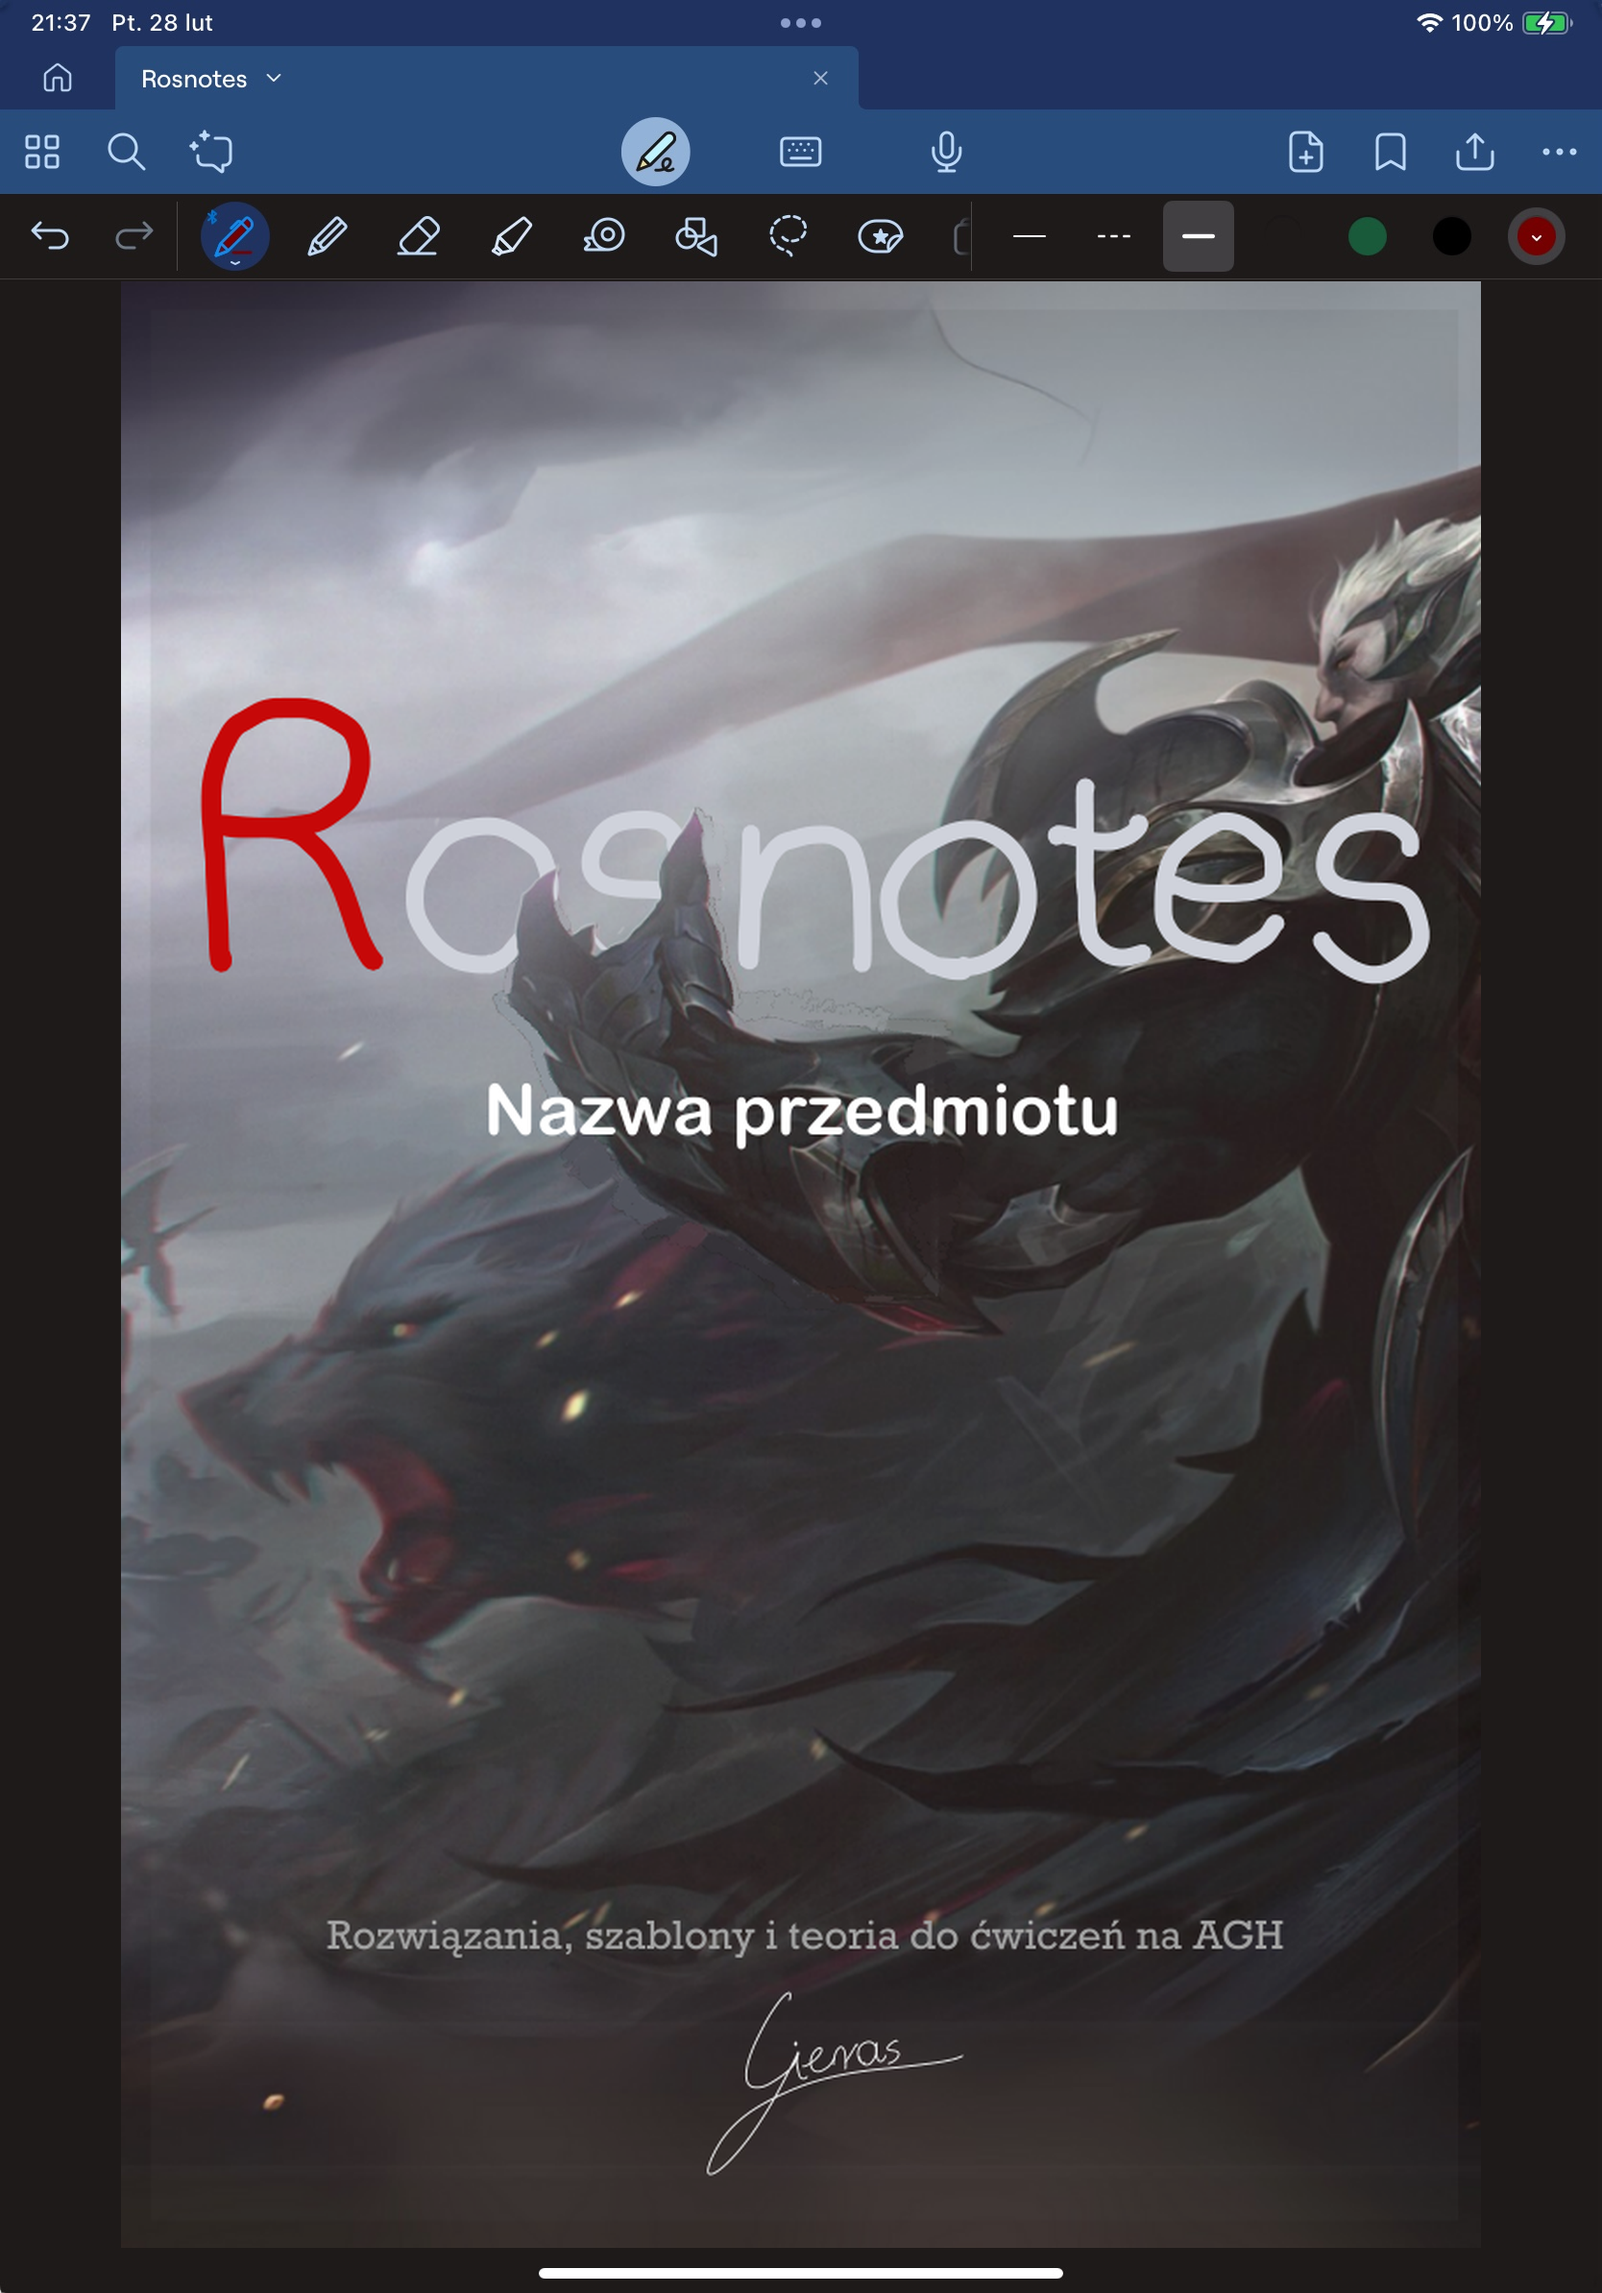
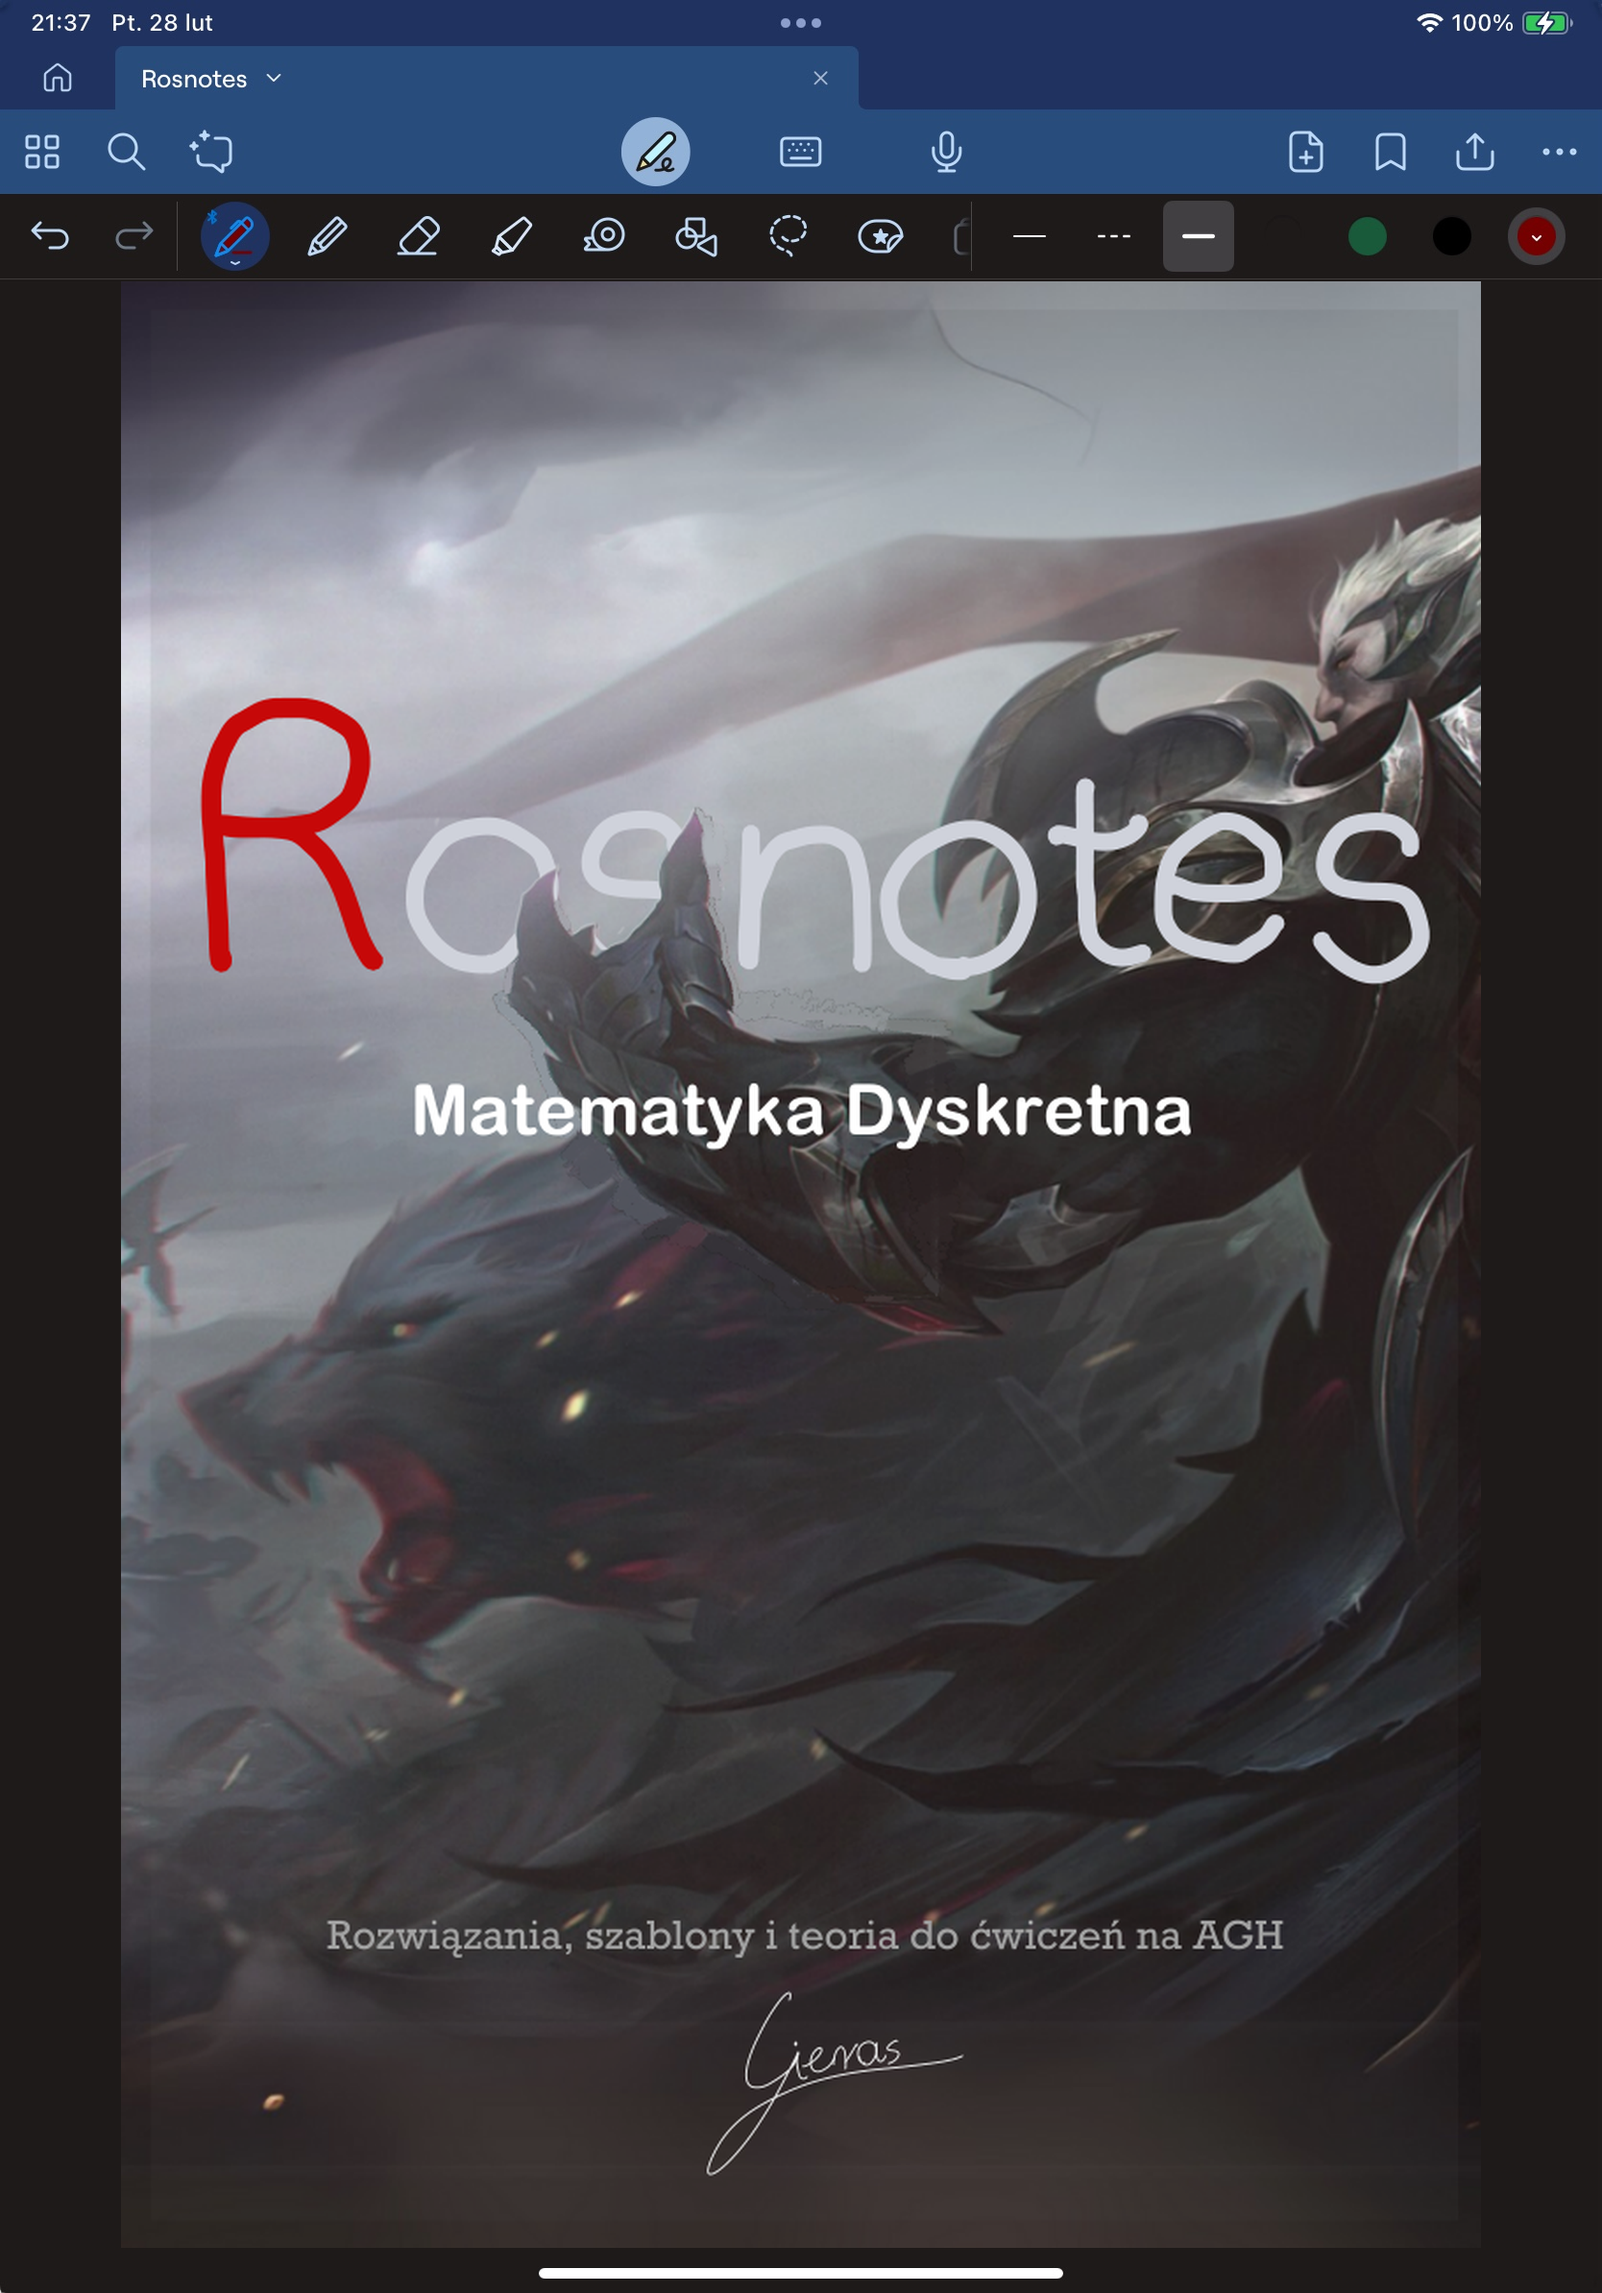
ustawienie nazwy zeszytu

Changed region(s): [[0.2494, 0.4648, 0.7482, 0.4958]]

diff --git a/Organize/Organize.py b/Organize/Organize.py
@@ -10,7 +10,7 @@ class Config:
     # Notebook settings
 
     # Nazwa przedmiotu
-    NOTEBOOK_NAME = "Nazwa przedmiotu"  # Ustaw tu nazwe przedmiotu
+    NOTEBOOK_NAME = "Matematyka Dyskretna"  # Ustaw tu nazwe przedmiotu
 
     THEMES = [
         "Black",
